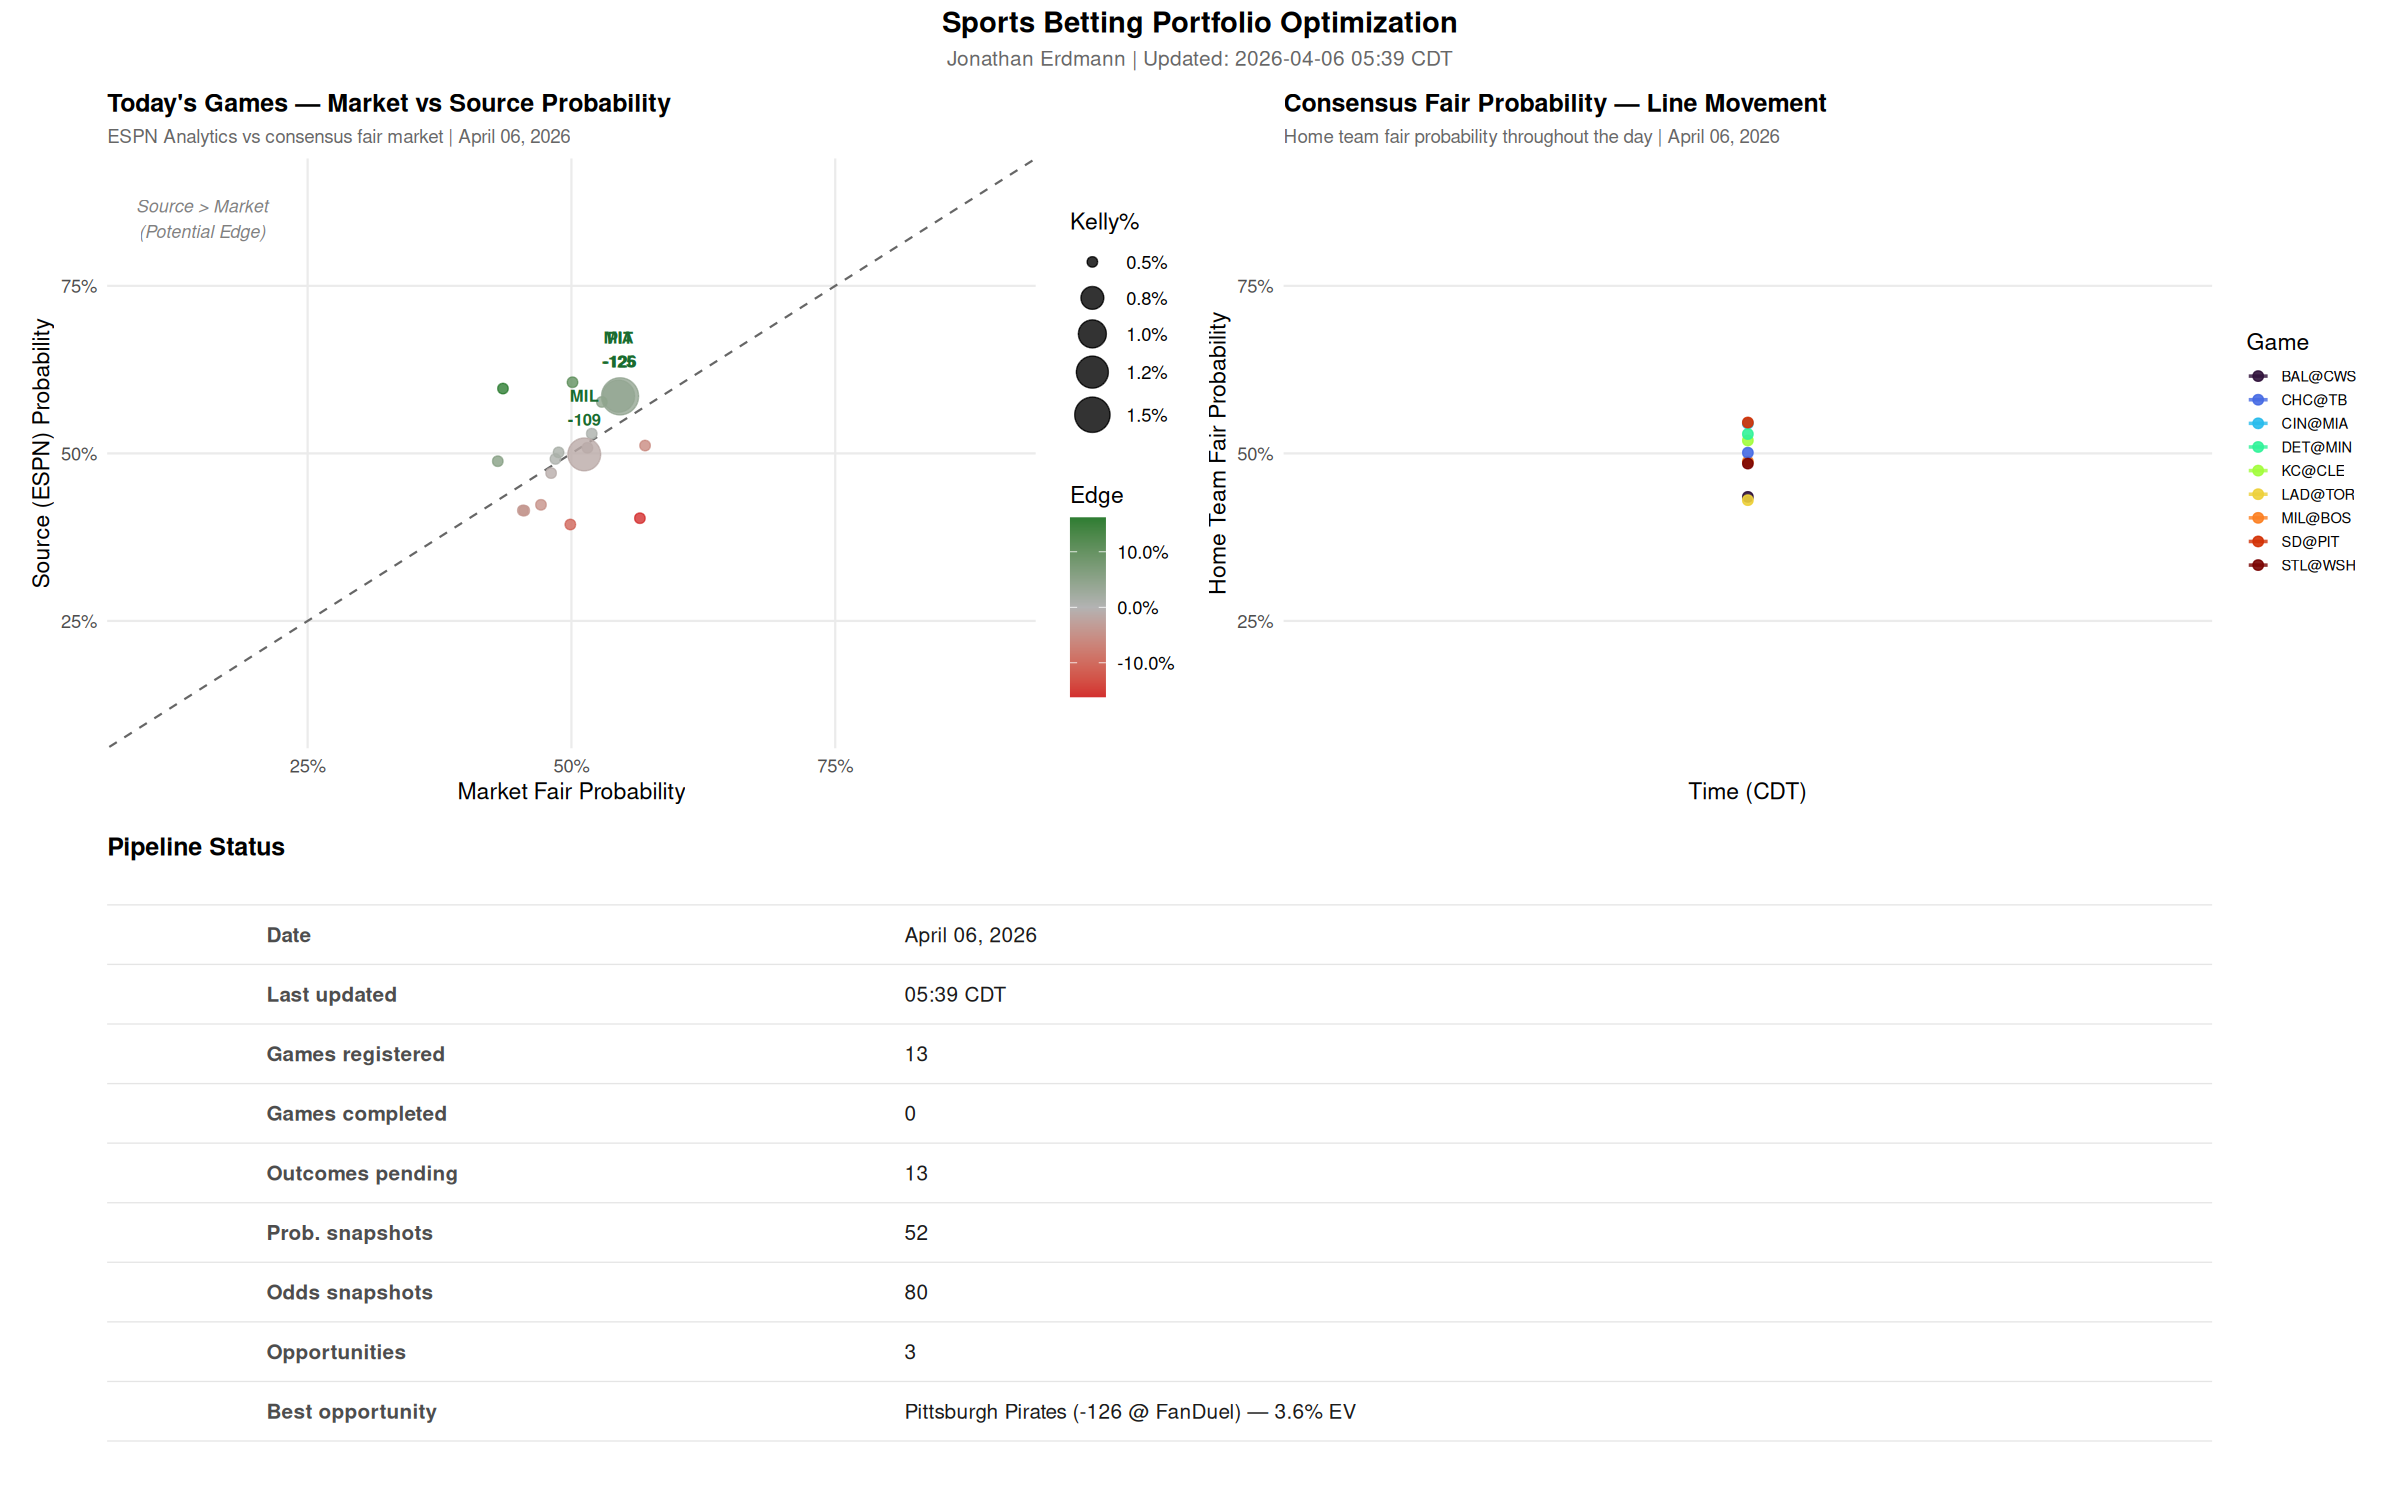
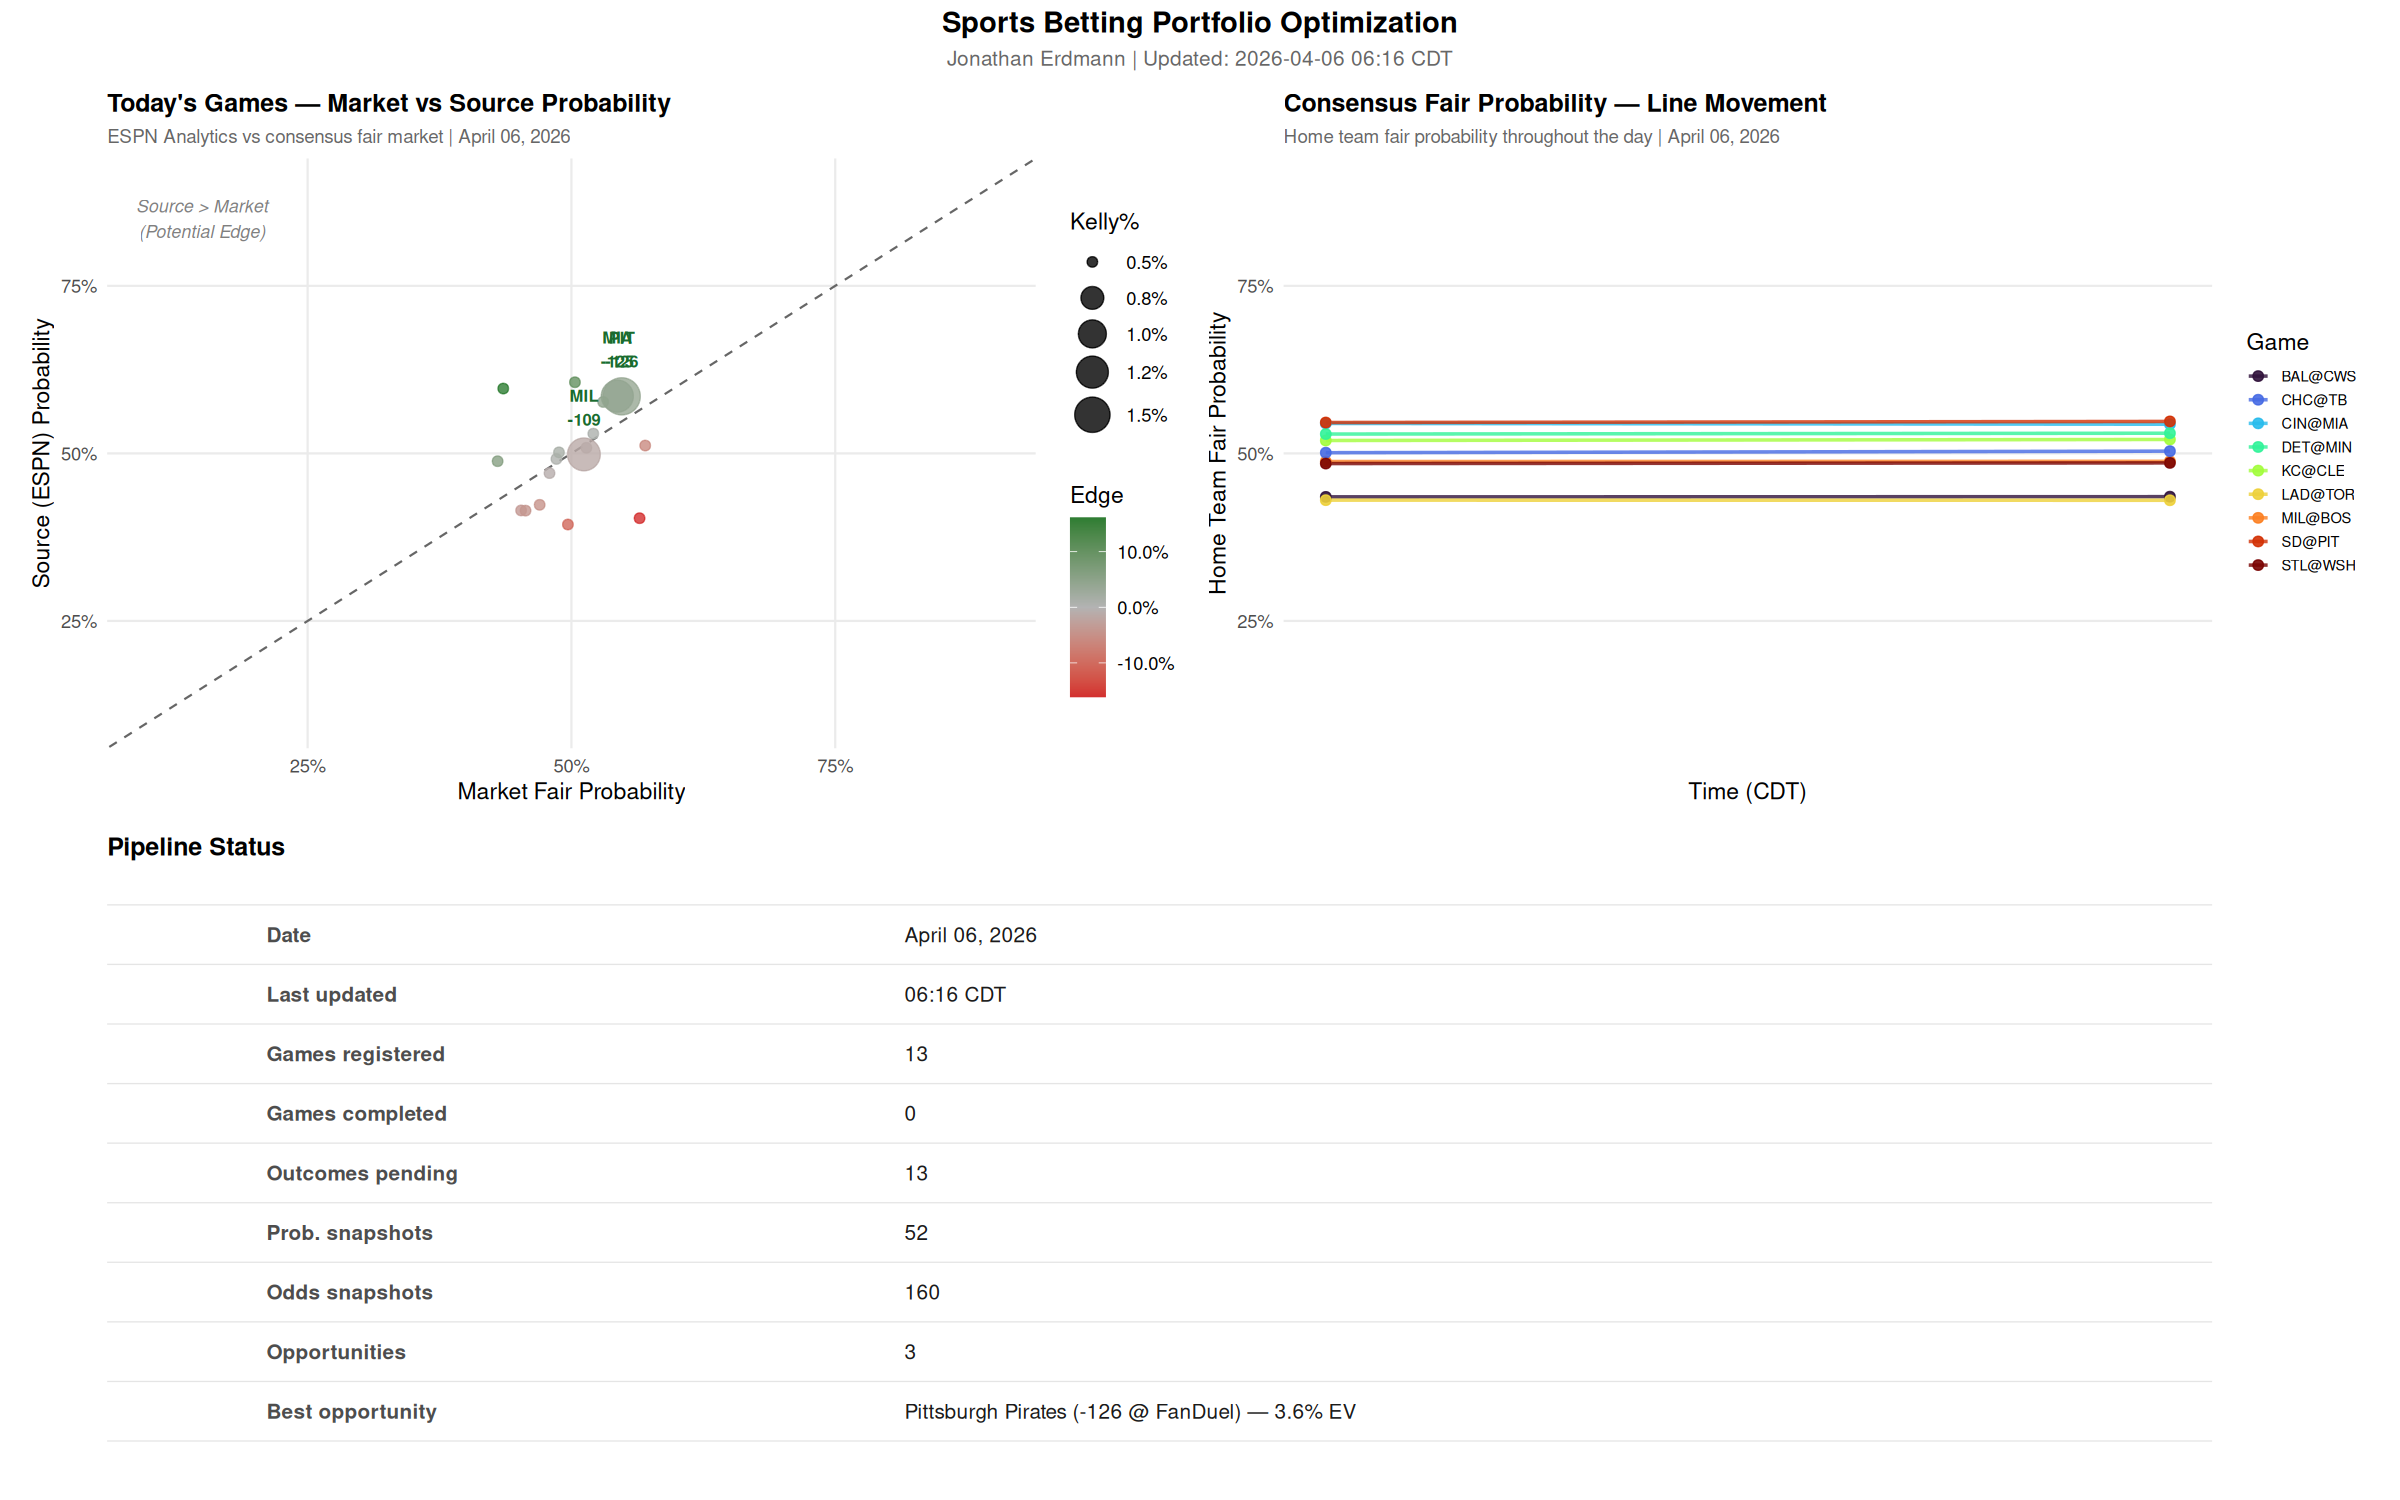
Update dashboard: 2026-04-06 06:16

Changed region(s): [[0.5312, 0.276, 0.9062, 0.3373], [0.25, 0.2147, 0.2812, 0.2453]]

diff --git a/projects/portfolio-optimization/dashboard.md b/projects/portfolio-optimization/dashboard.md
@@ -6,7 +6,7 @@ permalink: /projects/portfolio-optimization/dashboard/
 
 ## Daily Pipeline Dashboard
 
-**Last updated:** April 06, 2026 05:39 CDT
+**Last updated:** April 06, 2026 06:16 CDT
 
 ---
 
